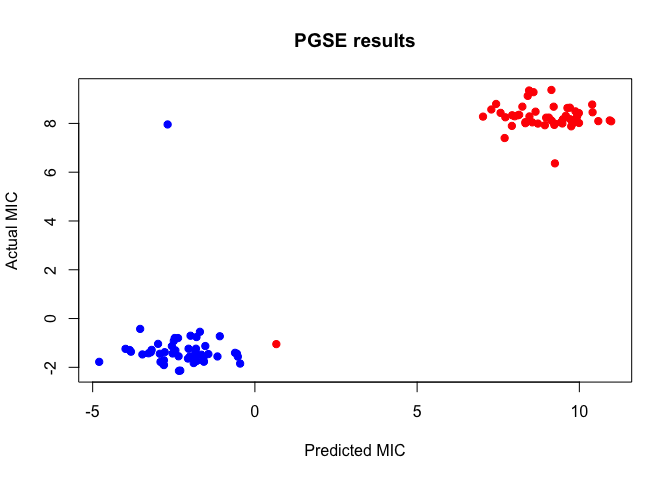
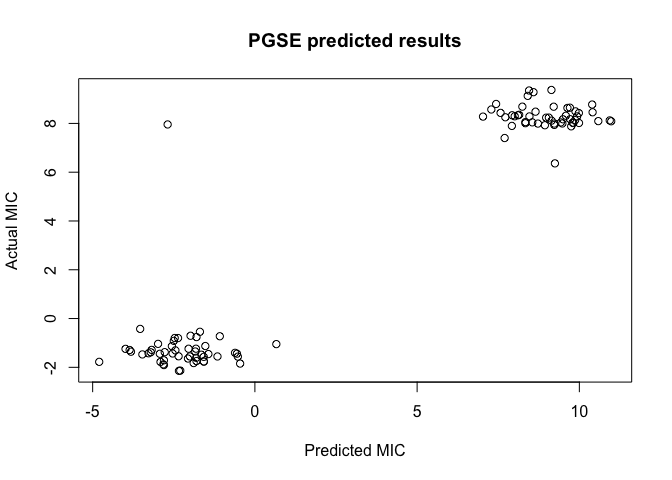
readme update

diff --git a/R-package/README.md b/R-package/README.md
@@ -8,7 +8,11 @@
 [![R-CMD-check](https://github.com/yinzheng-zhong/PGSE/actions/workflows/R-CMD-check.yaml/badge.svg)](https://github.com/yinzheng-zhong/PGSE/actions/workflows/R-CMD-check.yaml)
 <!-- badges: end -->
 
-The goal of PGSE is to …
+R `PGSE` is primarily a wrapper around the
+[`pgse`](https://github.com/yinzheng-zhong/PGSE/) Python package. It has
+a set of S3 implementations to allow seamless use in R. An low-level
+wrapper around the Python training and inference pipelines is also
+provided.
 
 ## Installation
 
@@ -121,9 +125,7 @@ preds <- predict(result,
 plot(preds ~ labels,
      xlab = "Predicted MIC",
      ylab = "Actual MIC",
-     main = "PGSE results",
-     pch = 19,
-     col = ifelse(labels > 0, "red", "blue"))
+     main = "PGSE predicted results")
 ```
 
 <img src="man/figures/README-example2-1.png" width="100%" />
